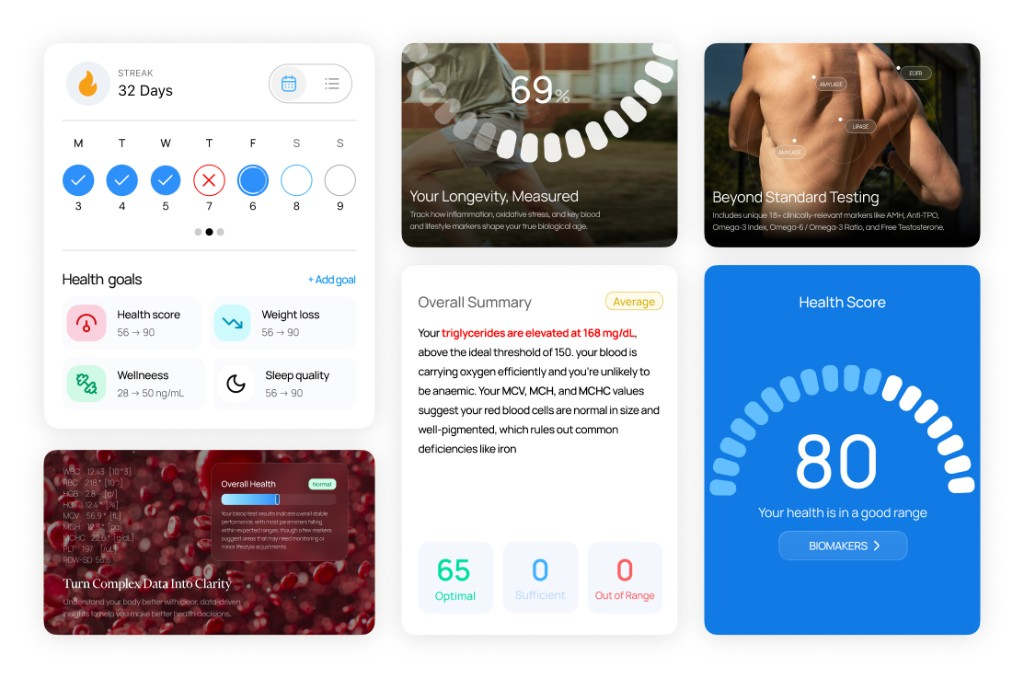
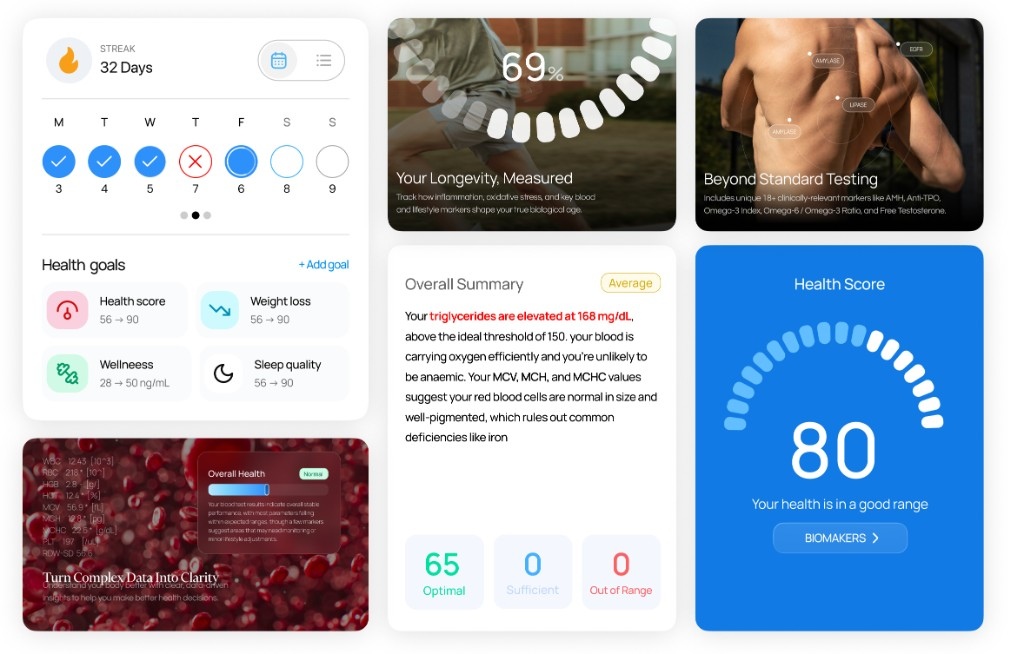
Improve homepage images and app widgets mobile layout.
Replace pixelated peptide and app widget assets with high-res files, and tune app widgets corner radius and mobile spacing.

diff --git a/index.html b/index.html
@@ -377,7 +377,7 @@ body.menu-open .hdr{opacity:0;pointer-events:none}
 .app-widgets-sec{background:linear-gradient(180deg,#fff 0%,var(--sky-wash) 100%)}
 .app-widgets-head{text-align:center;max-width:720px;margin:0 auto}
 .app-widgets-head .stack-lead{margin-left:auto;margin-right:auto}
-.app-widgets-visual{margin-top:clamp(36px,4.5vw,56px);border-radius:var(--r-xl);overflow:hidden;
+.app-widgets-visual{margin-top:clamp(36px,4.5vw,56px);border-radius:var(--r-md);overflow:hidden;
   box-shadow:var(--shadow-premium);border:1px solid rgba(227,233,239,.9);background:#fff}
 .app-widgets-visual img{display:block;width:100%;height:auto}
 
@@ -451,6 +451,7 @@ body.menu-open .hdr{opacity:0;pointer-events:none}
   .app{padding-left:20px;padding-right:20px}
   .faq .ans{padding-right:8px}
   .ft-cols{grid-template-columns:1fr;gap:32px}
+  .app-widgets-visual{border-radius:var(--r-sm)}
 }
 /* ============================================================
    BOOKING MODAL
@@ -855,7 +856,7 @@ textarea.bk-input{resize:vertical;line-height:1.55}
   <div class="wrap">
     <div class="rail" id="svcRail">
       <a class="svc rv" href="peptide-therapy.html">
[1 lines of base64/hex data omitted]
+        <div class="svc-media"><span class="pill">Most requested</span><img src="assets/media/peptide-protocol.jpg" alt="200 Health Pinealon peptide vial" width="764" height="1024" loading="lazy"></div>
         <h3>Personalised peptide <span class="nb">protocol <svg viewBox="0 0 24 24" fill="none" stroke="currentColor" stroke-width="2.5"><path d="M5 12h13M13 6l6 6-6 6"/></svg></span></h3>
         <p>Prescribed after bloods, dosed in units, with a schedule you can follow.</p>
       </a>
@@ -886,7 +887,7 @@ textarea.bk-input{resize:vertical;line-height:1.55}
       <p class="stack-lead">Track daily streaks, biological age, and 100+ biomarkers from one dashboard. The app turns complex lab data into clear widgets — health scores, goal progress, and physician summaries you can act on between visits.</p>
     </div>
     <figure class="app-widgets-visual rv">
-      <img src="assets/media/app-widgets.jpg" alt="200.Health app widgets showing streak tracking, biological age, biomarker panels, blood results, and health score" width="1024" height="678" loading="lazy" decoding="async">
+      <img src="assets/media/app-widgets.jpg" alt="200.Health app widgets showing streak tracking, biological age, biomarker panels, blood results, and health score" width="1024" height="654" loading="lazy" decoding="async">
     </figure>
   </div>
 </section>
